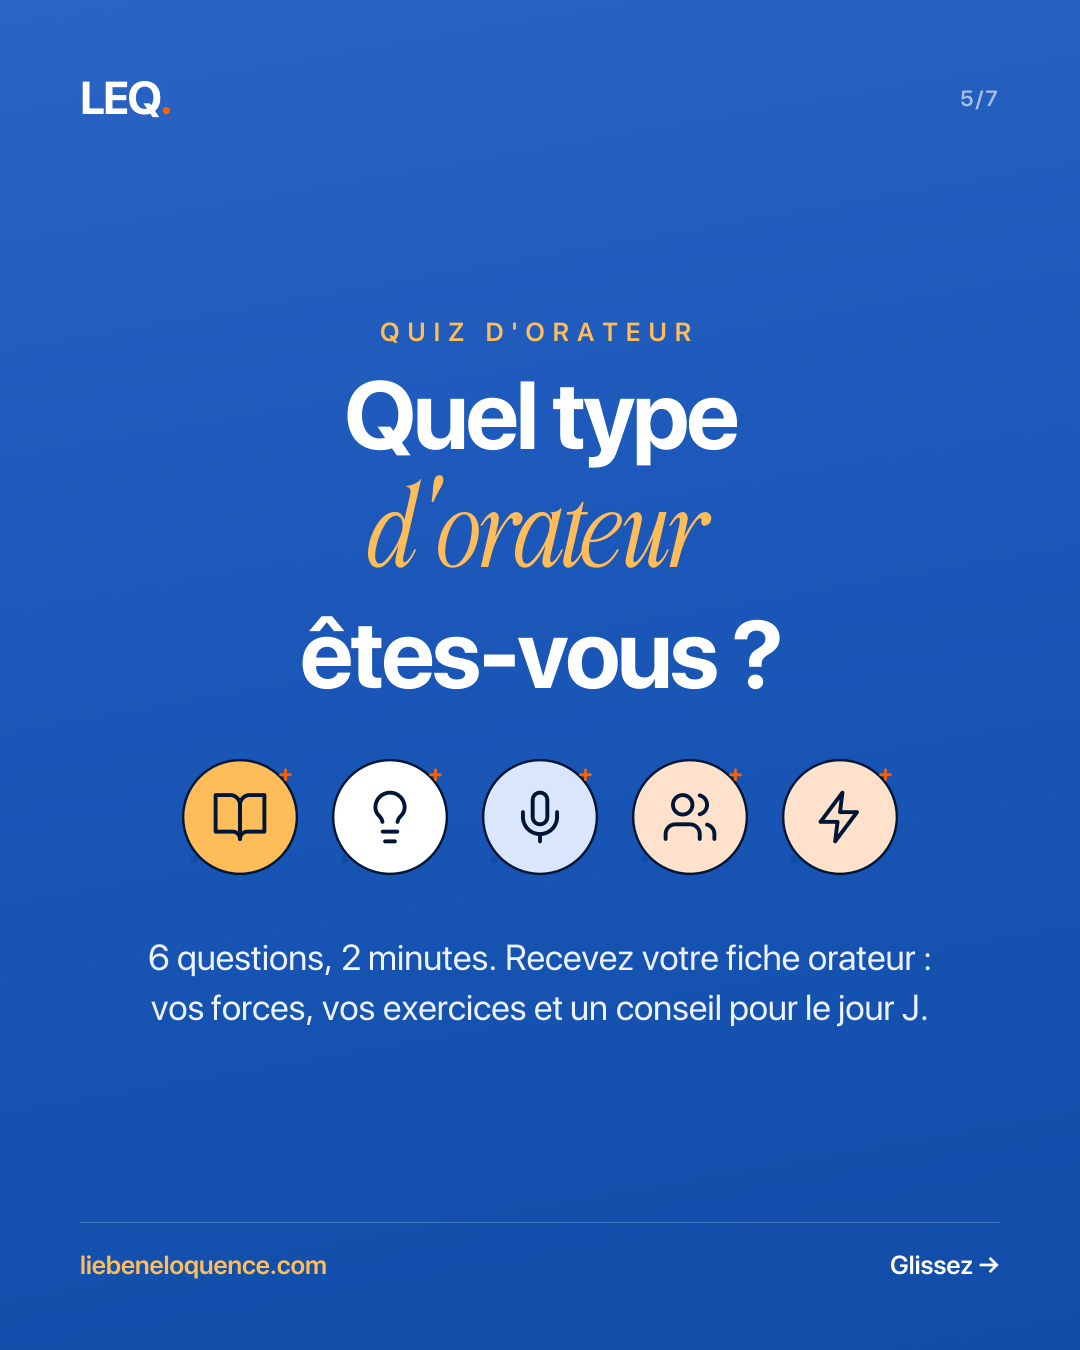
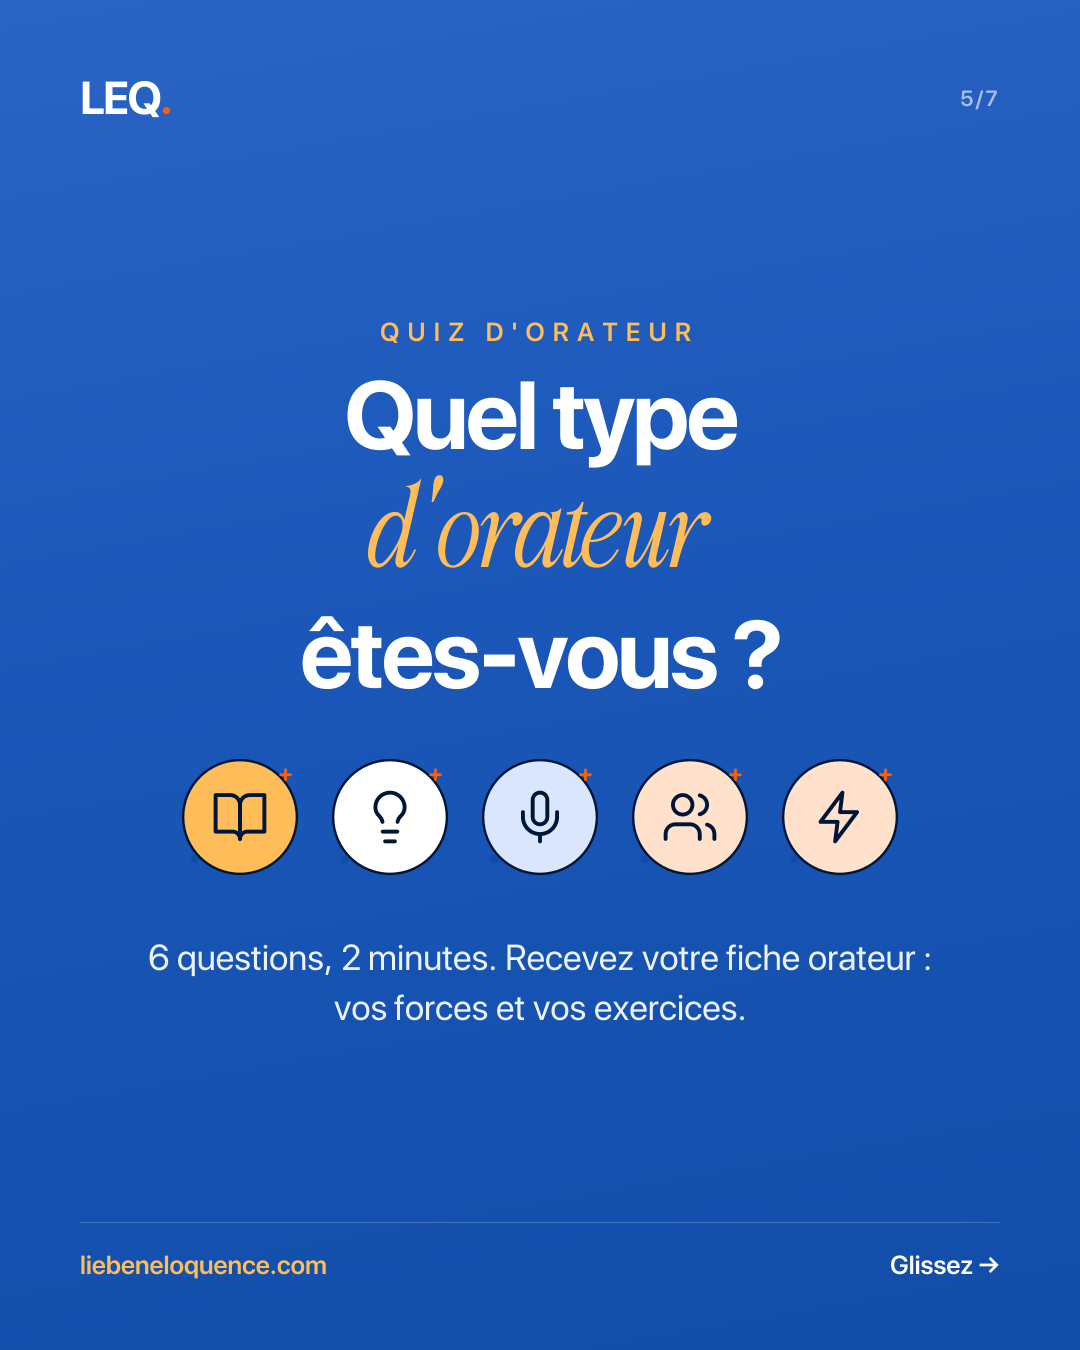
Fiche orateur aérée, forces en pointillés, sans conseil du jour J ; masterclass sans programme, icônes pour Ce que vous recevez

Changed region(s): [[0.3056, 0.7156, 0.825, 0.7778], [0.2139, 0.7467, 0.275, 0.7778], [0.1528, 0.7467, 0.1833, 0.7778]]

diff --git a/src/emails/fiche-orateur.tsx b/src/emails/fiche-orateur.tsx
@@ -39,7 +39,7 @@ const ORANGE = "#FF5E01";
 
 export async function renderFicheOrateur(r: QuizResult, prenom: string): Promise<Buffer> {
   const icon = svgUri(await readFile(path.join(QUIZ_IMG_DIR, path.basename(r.profile.img)), "utf8"));
-  const height = 1360 + r.points.length * 215;
+  const height = 1240 + r.points.length * 215;
 
   const image = new ImageResponse(
     (
@@ -68,10 +68,10 @@ export async function renderFicheOrateur(r: QuizResult, prenom: string): Promise
         </div>
 
         {/* Profil */}
-        <div style={{ display: "flex", marginTop: 56, fontSize: 28, color: "rgba(255,255,255,.85)" }}>{`Le profil de ${prenom}`}</div>
-        <div style={{ display: "flex", fontFamily: "Melodrame", fontStyle: "italic", fontSize: 118, color: GOLD, lineHeight: 1.05, marginTop: 6 }}>{r.profile.name}</div>
+        <div style={{ display: "flex", marginTop: 64, fontSize: 28, letterSpacing: 1, color: "rgba(255,255,255,.85)" }}>{`Le profil de ${prenom}`}</div>
+        <div style={{ display: "flex", fontFamily: "Melodrame", fontStyle: "italic", fontSize: 118, color: GOLD, lineHeight: 1.15, marginTop: 18, paddingBottom: 12 }}>{r.profile.name}</div>
 
-        <div style={{ display: "flex", alignItems: "center", marginTop: 36, background: "#fff", borderRadius: 32, padding: 32, color: NAVY }}>
+        <div style={{ display: "flex", alignItems: "center", marginTop: 48, background: "#fff", borderRadius: 32, padding: 32, color: NAVY }}>
           <div style={{ display: "flex", width: 150, height: 150, borderRadius: 75, background: "radial-gradient(circle, rgba(255,189,89,.75), rgba(255,189,89,0) 70%)", alignItems: "center", justifyContent: "center", flexShrink: 0 }}>
             <img src={icon} width={130} height={130} />
           </div>
@@ -85,7 +85,7 @@ export async function renderFicheOrateur(r: QuizResult, prenom: string): Promise
         </div>
         <div style={{ display: "flex", flexWrap: "wrap", marginTop: 14 }}>
           {r.profile.forces.map((f) => (
-            <div key={f} style={{ display: "flex", alignItems: "center", marginRight: 12, marginBottom: 12, padding: "12px 22px", borderRadius: 999, background: "linear-gradient(96deg, #FFBD59, #FF5E01)", color: NAVY, fontSize: 23, fontWeight: 600 }}>
+            <div key={f} style={{ display: "flex", alignItems: "center", marginRight: 12, marginBottom: 12, padding: "12px 22px", borderRadius: 999, border: "2px dashed rgba(255,255,255,.55)", color: "#fff", fontSize: 23, fontWeight: 600 }}>
               {f}
             </div>
           ))}
@@ -118,15 +118,6 @@ export async function renderFicheOrateur(r: QuizResult, prenom: string): Promise
             </div>
           </div>
         ))}
-
-        {/* Conseil pour le jour J */}
-        <div style={{ display: "flex", flexDirection: "column", marginTop: 34, borderRadius: 28, padding: "26px 30px", background: "#FFF6D6", color: NAVY }}>
-          <div style={{ display: "flex", alignItems: "baseline" }}>
-            <div style={{ display: "flex", fontSize: 30, fontWeight: 700 }}>Votre conseil pour le</div>
-            <div style={{ display: "flex", fontFamily: "Melodrame", fontStyle: "italic", fontSize: 38, color: ORANGE, marginLeft: 10 }}>jour J</div>
-          </div>
-          <div style={{ display: "flex", marginTop: 10, fontSize: 25, lineHeight: 1.45, color: "rgba(0,22,54,.82)" }}>{r.profile.conseil}</div>
-        </div>
 
         {/* Pied */}
         <div style={{ display: "flex", marginTop: "auto", paddingTop: 30, justifyContent: "space-between", alignItems: "center", borderTop: "1px solid rgba(255,255,255,.2)" }}>

diff --git a/src/lib/quiz.ts b/src/lib/quiz.ts
@@ -61,42 +61,37 @@ export const QUESTIONS: QuizQuestion[] = [
 
 export type ProfileId = "conteur" | "stratege" | "tribun" | "diplomate" | "improvisateur";
 
-/* `forces` et `conseil` n'apparaissent que dans la fiche orateur envoyée par mail (textes à valider par Rebecca). */
-export const PROFILES: Record<ProfileId, { name: string; img: string; desc: string; forces: string[]; conseil: string }> = {
+/* `forces` n'apparaît que dans la fiche orateur envoyée par mail. */
+export const PROFILES: Record<ProfileId, { name: string; img: string; desc: string; forces: string[] }> = {
   conteur: {
     name: "Le Conteur",
     img: img("book"),
     desc: "Vous captez l’attention par les histoires et les images. Votre public se souvient de vous. Votre défi : mettre ce talent au service d’un message clair.",
     forces: ["Vous captez l’attention", "Vous rendez les idées concrètes", "On se souvient de vous"],
-    conseil: "Avant de raconter, fixez votre message en une seule phrase : chaque histoire doit y mener.",
   },
   stratege: {
     name: "Le Stratège",
     img: img("bulb"),
     desc: "Vous construisez avant de parler et vos arguments tiennent debout. Votre défi : toucher autant que convaincre, et oser l’émotion.",
     forces: ["Vos idées sont structurées", "Vos arguments tiennent debout", "Vous préparez avec rigueur"],
-    conseil: "Ouvrez par une image ou une courte histoire avant vos arguments : on retient d’abord ce qui nous touche.",
   },
   tribun: {
     name: "Le Tribun",
     img: img("mic"),
     desc: "Vous avez de l’énergie et de la présence. Quand vous parlez, la salle se réveille. Votre défi : canaliser cette force et structurer votre propos.",
     forces: ["Votre énergie est communicative", "Vous avez une vraie présence", "Vous osez prendre la parole"],
-    conseil: "Marquez un silence de deux secondes avant votre première phrase : votre énergie n’en aura que plus d’impact.",
   },
   diplomate: {
     name: "Le Diplomate",
     img: img("users"),
     desc: "Vous écoutez, vous nuancez, vous rassemblez. On vous fait confiance. Votre défi : affirmer votre voix et prendre davantage de place.",
     forces: ["Vous savez écouter", "Vous apportez de la nuance", "On vous fait confiance"],
-    conseil: "Annoncez clairement votre position dès le début, puis nuancez : votre voix comptera davantage.",
   },
   improvisateur: {
     name: "L’Improvisateur",
     img: img("zap"),
     desc: "Vous êtes à l’aise dans l’imprévu et rebondissez sur tout. Votre défi : préparer sans perdre votre spontanéité.",
     forces: ["Vous êtes à l’aise dans l’imprévu", "Vous rebondissez sur tout", "Vous restez spontané"],
-    conseil: "Préparez mot pour mot votre introduction et votre conclusion : pour le reste, faites confiance à votre aisance.",
   },
 };
 

diff --git a/src/app/evenements/[slug]/page.tsx b/src/app/evenements/[slug]/page.tsx
@@ -9,6 +9,18 @@ import { Icon, type IconName } from "@/components/ui/Icons";
 
 type Props = { params: Promise<{ slug: string }> };
 
+/** Icône de « Ce que vous recevez », choisie d'après le texte. */
+function includeIcon(text: string): IconName {
+  const t = text.toLowerCase();
+  if (t.includes("fiche")) return "fileChart";
+  if (t.includes("conseil")) return "lightbulb";
+  if (t.includes("ressource")) return "book";
+  if (t.includes("situation")) return "mic";
+  if (t.includes("cas")) return "briefcase";
+  if (t.includes("attestation") || t.includes("certific")) return "award";
+  return "zap";
+}
+
 export async function generateStaticParams() {
   return (await getEvents()).map((e) => ({ slug: e.slug }));
 }
@@ -130,9 +142,12 @@ export default async function EvenementPage({ params }: Props) {
                 <h2 className="mt-12 mb-0 text-[26px] font-bold tracking-[-0.03em]">
                   Ce que vous <span className="serif text-royal">recevez</span>
                 </h2>
-                <ul className="mt-5 mb-0 flex list-none flex-wrap gap-2.5 p-0">
+                <ul className="mt-5 mb-0 grid list-none gap-3 p-0 sm:grid-cols-2">
                   {event.includes.map((inc) => (
-                    <li key={inc} className="rounded-full px-[18px] py-[9px] text-[14px] font-semibold text-ink" style={{ background: "linear-gradient(96deg,#FFBD59,#FF5E01)" }}>
+                    <li key={inc} className="flex items-center gap-3.5 rounded-[18px] bg-white p-4 text-[15.5px] font-semibold text-ink" style={{ boxShadow: "0 20px 40px -32px rgba(0,22,54,.6)" }}>
+                      <span className="tile rounded-full text-ink" style={{ background: "linear-gradient(96deg,#FFBD59,#FF5E01)" }}>
+                        <Icon name={includeIcon(inc)} />
+                      </span>
                       {inc}
                     </li>
                   ))}

diff --git a/src/emails/templates.ts b/src/emails/templates.ts
@@ -268,7 +268,7 @@ export function quizClient(d: { result: QuizResult; prenom: string }): Email {
       reason: "Vous recevez ce mail car vous avez demandé votre fiche orateur sur liebeneloquence.com.",
       body:
         hello(d.prenom) +
-        p(`Merci d'avoir fait le quiz ! Vous êtes <strong>${esc(r.profile.name)}</strong>, niveau <strong>${esc(r.level.name.toLowerCase())}</strong>. Voici votre fiche orateur : vos forces, un exercice concret pour chacun de vos points à travailler et votre conseil pour le jour J. Elle est aussi en pièce jointe, pour la garder ou la partager.`) +
+        p(`Merci d'avoir fait le quiz ! Vous êtes <strong>${esc(r.profile.name)}</strong>, niveau <strong>${esc(r.level.name.toLowerCase())}</strong>. Voici votre fiche orateur : vos forces et un exercice concret pour chacun de vos points à travailler. Elle est aussi en pièce jointe, pour la garder ou la partager.`) +
         `<img src="cid:fiche" width="528" alt="Votre fiche orateur : ${esc(r.profile.name)}" style="display:block;width:100%;max-width:528px;height:auto;border:0;border-radius:18px;margin:8px 0 24px">` +
         h2("Envie d'aller plus loin ?") +
         p("Réservez votre séance diagnostic de 30 minutes, offerte : on fait le point ensemble sur votre profil et vos objectifs.") +

diff --git a/src/components/ui/Icons.tsx b/src/components/ui/Icons.tsx
@@ -16,7 +16,10 @@ type IconName =
   | "chat"
   | "calendar"
   | "clock"
-  | "ticket";
+  | "ticket"
+  | "lightbulb"
+  | "book"
+  | "briefcase";
 
 const PATHS: Record<IconName, React.ReactNode> = {
   target: (
@@ -90,6 +93,19 @@ const PATHS: Record<IconName, React.ReactNode> = {
     <>
       <circle cx="12" cy="12" r="10" />
       <path d="M12 6v6l4 2" />
+    </>
+  ),
+  lightbulb: (
+    <>
+      <path d="M15 14c.2-1 .7-1.7 1.5-2.5 1-.9 1.5-2.2 1.5-3.5A6 6 0 0 0 6 8c0 1 .2 2.2 1.5 3.5.7.7 1.3 1.5 1.5 2.5" />
+      <path d="M9 18h6M10 22h4" />
+    </>
+  ),
+  book: <path d="M4 19.5v-15A2.5 2.5 0 0 1 6.5 2H20v20H6.5a2.5 2.5 0 0 1 0-5H20" />,
+  briefcase: (
+    <>
+      <rect x="2" y="7" width="20" height="14" rx="2" />
+      <path d="M16 21V5a2 2 0 0 0-2-2h-4a2 2 0 0 0-2 2v16" />
     </>
   ),
   ticket: (
